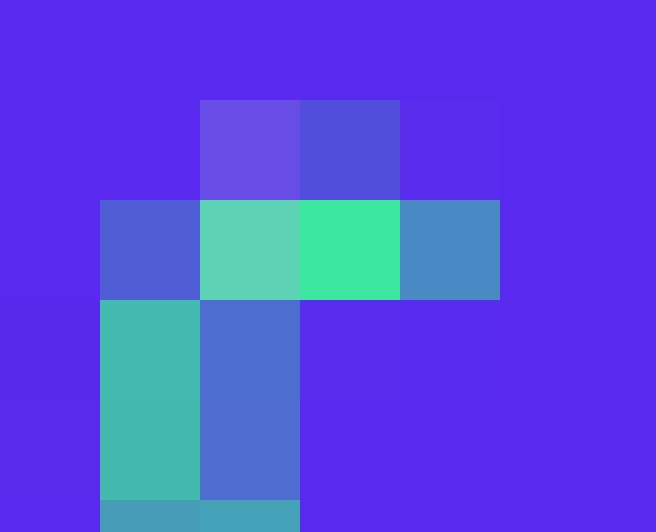
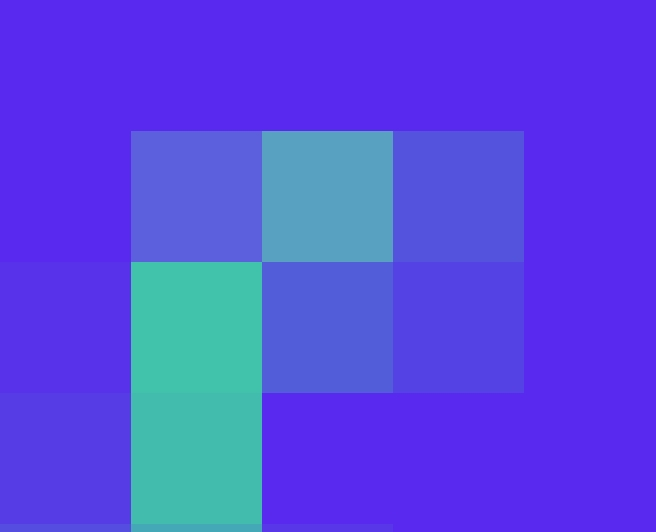
fix pixelated resources, fixed swap index flow

diff --git a/libraries/cache/delete_index.go b/libraries/cache/delete_index.go
@@ -1,0 +1,62 @@
+package cache
+
+import (
+	"context"
+	"github.com/spf13/cobra"
+	"go.uber.org/zap"
+	"overdoll/libraries/bootstrap"
+	"strings"
+	"time"
+)
+
+func createDeleteIndex(config IndexConfig) *cobra.Command {
+	return &cobra.Command{
+		Use:   "delete-index [index]",
+		Args:  cobra.ExactArgs(1),
+		Short: "delete an index. will ensure no aliases are assigned before deleting.",
+		Run: func(cmd *cobra.Command, args []string) {
+
+			indexTarget := args[0]
+
+			ctx, cancelFn := context.WithTimeout(context.Background(), time.Second*5)
+			defer cancelFn()
+
+			bootstrap.NewBootstrap()
+			client := bootstrap.InitializeElasticSearchSession()
+
+			start := time.Now().UTC()
+
+			aliases, err := client.Aliases().
+				Index(indexTarget).
+				Do(ctx)
+
+			if err != nil {
+				zap.S().Fatalw("failed to get aliases for index", zap.Error(err))
+			}
+
+			values, ok := aliases.Indices[indexTarget]
+
+			if ok && len(values.Aliases) > 0 {
+				var aliasValues []string
+
+				for _, value := range values.Aliases {
+					aliasValues = append(aliasValues, value.AliasName)
+				}
+
+				zap.S().Fatalf("cannot delete index [%s] since it points to aliases [%s]", indexTarget, strings.Join(aliasValues, ", "))
+			}
+
+			_, err = client.DeleteIndex(indexTarget).Do(ctx)
+
+			if err != nil {
+				zap.S().Fatalw("failed to delete index", zap.Error(err))
+			}
+
+			zap.S().Infof(
+				"successfully deleted index [%s] in %s!",
+				indexTarget,
+				time.Since(start).Truncate(time.Millisecond),
+			)
+		},
+	}
+}

diff --git a/libraries/cache/list.go b/libraries/cache/list.go
@@ -1,0 +1,65 @@
+package cache
+
+import (
+	"context"
+	"github.com/spf13/cobra"
+	"go.uber.org/zap"
+	"overdoll/libraries/bootstrap"
+	"strings"
+	"time"
+)
+
+func list() func(cmd *cobra.Command, args []string) {
+	return func(cmd *cobra.Command, args []string) {
+		destinationIndex := cmd.Use
+
+		ctx, cancelFn := context.WithTimeout(context.Background(), time.Second*5)
+		defer cancelFn()
+
+		bootstrap.NewBootstrap()
+		client := bootstrap.InitializeElasticSearchSession()
+
+		writeAlias := writeLocalAlias(destinationIndex)
+		readAlias := readLocalAlias(destinationIndex)
+
+		aliases, err := client.Aliases().
+			Alias(writeAlias, readAlias).
+			Do(ctx)
+
+		if err != nil {
+			zap.S().Fatalw("failed to get aliases", zap.Error(err))
+		}
+
+		writerIndexesByAlias := aliases.IndicesByAlias(writeAlias)
+		readerIndexesByAlias := aliases.IndicesByAlias(readAlias)
+
+		zap.S().Infof(
+			"writer alias [%s] currently has assigned indexes: [%s]",
+			writeAlias,
+			strings.Join(writerIndexesByAlias, ", "),
+		)
+
+		zap.S().Infof(
+			"reader alias [%s] currently has assigned indexes: [%s]",
+			readAlias,
+			strings.Join(readerIndexesByAlias, ", "),
+		)
+	}
+}
+
+func createList(config IndexConfig) *cobra.Command {
+
+	listCmd := &cobra.Command{
+		Use:   "list",
+		Short: "list indexes and their aliases",
+	}
+
+	for indexName, _ := range config.Registry.registry {
+		listCmd.AddCommand(&cobra.Command{
+			Use: indexName,
+			Run: list(),
+		})
+	}
+
+	return listCmd
+}

diff --git a/applications/loader/internal/service/resource_component_test.go b/applications/loader/internal/service/resource_component_test.go
@@ -2,7 +2,6 @@ package service_test
 
 import (
 	"context"
-	"fmt"
 	graphql2 "github.com/99designs/gqlgen/graphql"
 	"github.com/stretchr/testify/mock"
 	"github.com/stretchr/testify/require"
@@ -323,7 +322,7 @@ func TestUploadResourcesAndProcessPrivate_and_apply_filter(t *testing.T) {
 
 	require.Equal(t, 4, assertions, "should have checked 3 urls in total")
 
-	pixelate := 100
+	pixelate := 20
 
 	workflowExecution = testing_tools.NewMockWorkflowWithArgs(application.TemporalClient, workflows.ProcessResourcesWithFiltersFromCopy, mock.Anything)
 
@@ -570,8 +569,6 @@ func TestUploadResourcesAndProcessAndDelete_non_private(t *testing.T) {
 
 	// second video
 	require.Len(t, newVideoResource2.FullUrls(), 1)
-
-	fmt.Println(itemId)
 
 	// correct dimensions
 	require.Equal(t, 720, newVideoResource2.Height(), "should be the correct height")

diff --git a/applications/loader/internal/domain/resource/resource.go b/applications/loader/internal/domain/resource/resource.go
@@ -204,9 +204,8 @@ func (r *Resource) ApplyFilters(file *os.File, config *Config, filters *ImageFil
 		// in order to have a consistent pixelation filter, regardless of how large the image is,
 		// we take the total amount of pixels in the image (w * h) and multiply by the percentage
 		// this will be the # of pixels left
-		totalPixels := float64(src.Bounds().Dx()*src.Bounds().Dy()) * float64(pixelateAmount/100)
-		pixelateValue := int(math.Floor(totalPixels*100) / 100)
-		fmt.Println(pixelateValue)
+		totalPixels := float64(src.Bounds().Dx()) * float64(pixelateAmount) / float64(100)
+		pixelateValue := int(math.Floor(totalPixels))
 		g.Add(gift.Pixelate(pixelateValue))
 	}
 

diff --git a/libraries/cache/swap.go b/libraries/cache/swap.go
@@ -47,8 +47,8 @@ func swap(alias string) func(cmd *cobra.Command, args []string) {
 			zap.S().Fatalw("index not found", zap.String("index", destinationIndex))
 		}
 
-		// add index to writer alias, and keep our old one, just in case
-		_, err = client.Alias().Add(destinationIndex, alias).Do(ctx)
+		// add index to writer alias, and remove our old one
+		_, err = client.Alias().Add(destinationIndex, alias).Remove(writerIndexesByAlias[0], alias).Do(ctx)
 
 		if err != nil {
 			zap.S().Fatalw("could not alias index", zap.Error(err), zap.String("index", destinationIndex), zap.String("alias", alias))

diff --git a/libraries/cache/cache.go b/libraries/cache/cache.go
@@ -25,5 +25,11 @@ func CreateCacheCommands(indexConfig IndexConfig) *cobra.Command {
 	// use this command to perform re-indexing after swapping the writer.
 	index.AddCommand(createIndex(indexConfig))
 
+	// use this command to list the assigned reader + writer aliases and their indexes
+	index.AddCommand(createList(indexConfig))
+
+	// use this command to delete an index. will check if any aliases are assigned before allowing it to occur
+	index.AddCommand(createDeleteIndex(indexConfig))
+
 	return index
 }

diff --git a/applications/sting/internal/app/workflows/activities/create_pixelated_resources_for_supporter_only_content.go b/applications/sting/internal/app/workflows/activities/create_pixelated_resources_for_supporter_only_content.go
@@ -35,7 +35,7 @@ func (h *Activities) CreatePixelatedResourcesForSupporterOnlyContent(ctx context
 
 			res.CreatedResources = true
 
-			newContents, err := h.loader.CopyResourcesAndApplyPixelateFilter(ctx, input.PostId, resourceIds, 80, false, "POST_PRIVATE_CONTENT")
+			newContents, err := h.loader.CopyResourcesAndApplyPixelateFilter(ctx, input.PostId, resourceIds, 20, false, "POST_PRIVATE_CONTENT")
 
 			if err != nil {
 				return err

diff --git a/applications/loader/internal/main.go b/applications/loader/internal/main.go
@@ -80,7 +80,7 @@ func RunWorker(cmd *cobra.Command, args []string) {
 }
 
 func RunHttp(cmd *cobra.Command, args []string) {
-	ctx, cancelFn := context.WithTimeout(context.Background(), time.Second*5)
+	ctx, cancelFn := context.WithTimeout(context.Background(), time.Second*20)
 	defer cancelFn()
 
 	app, cleanup := service.NewApplication(ctx)
